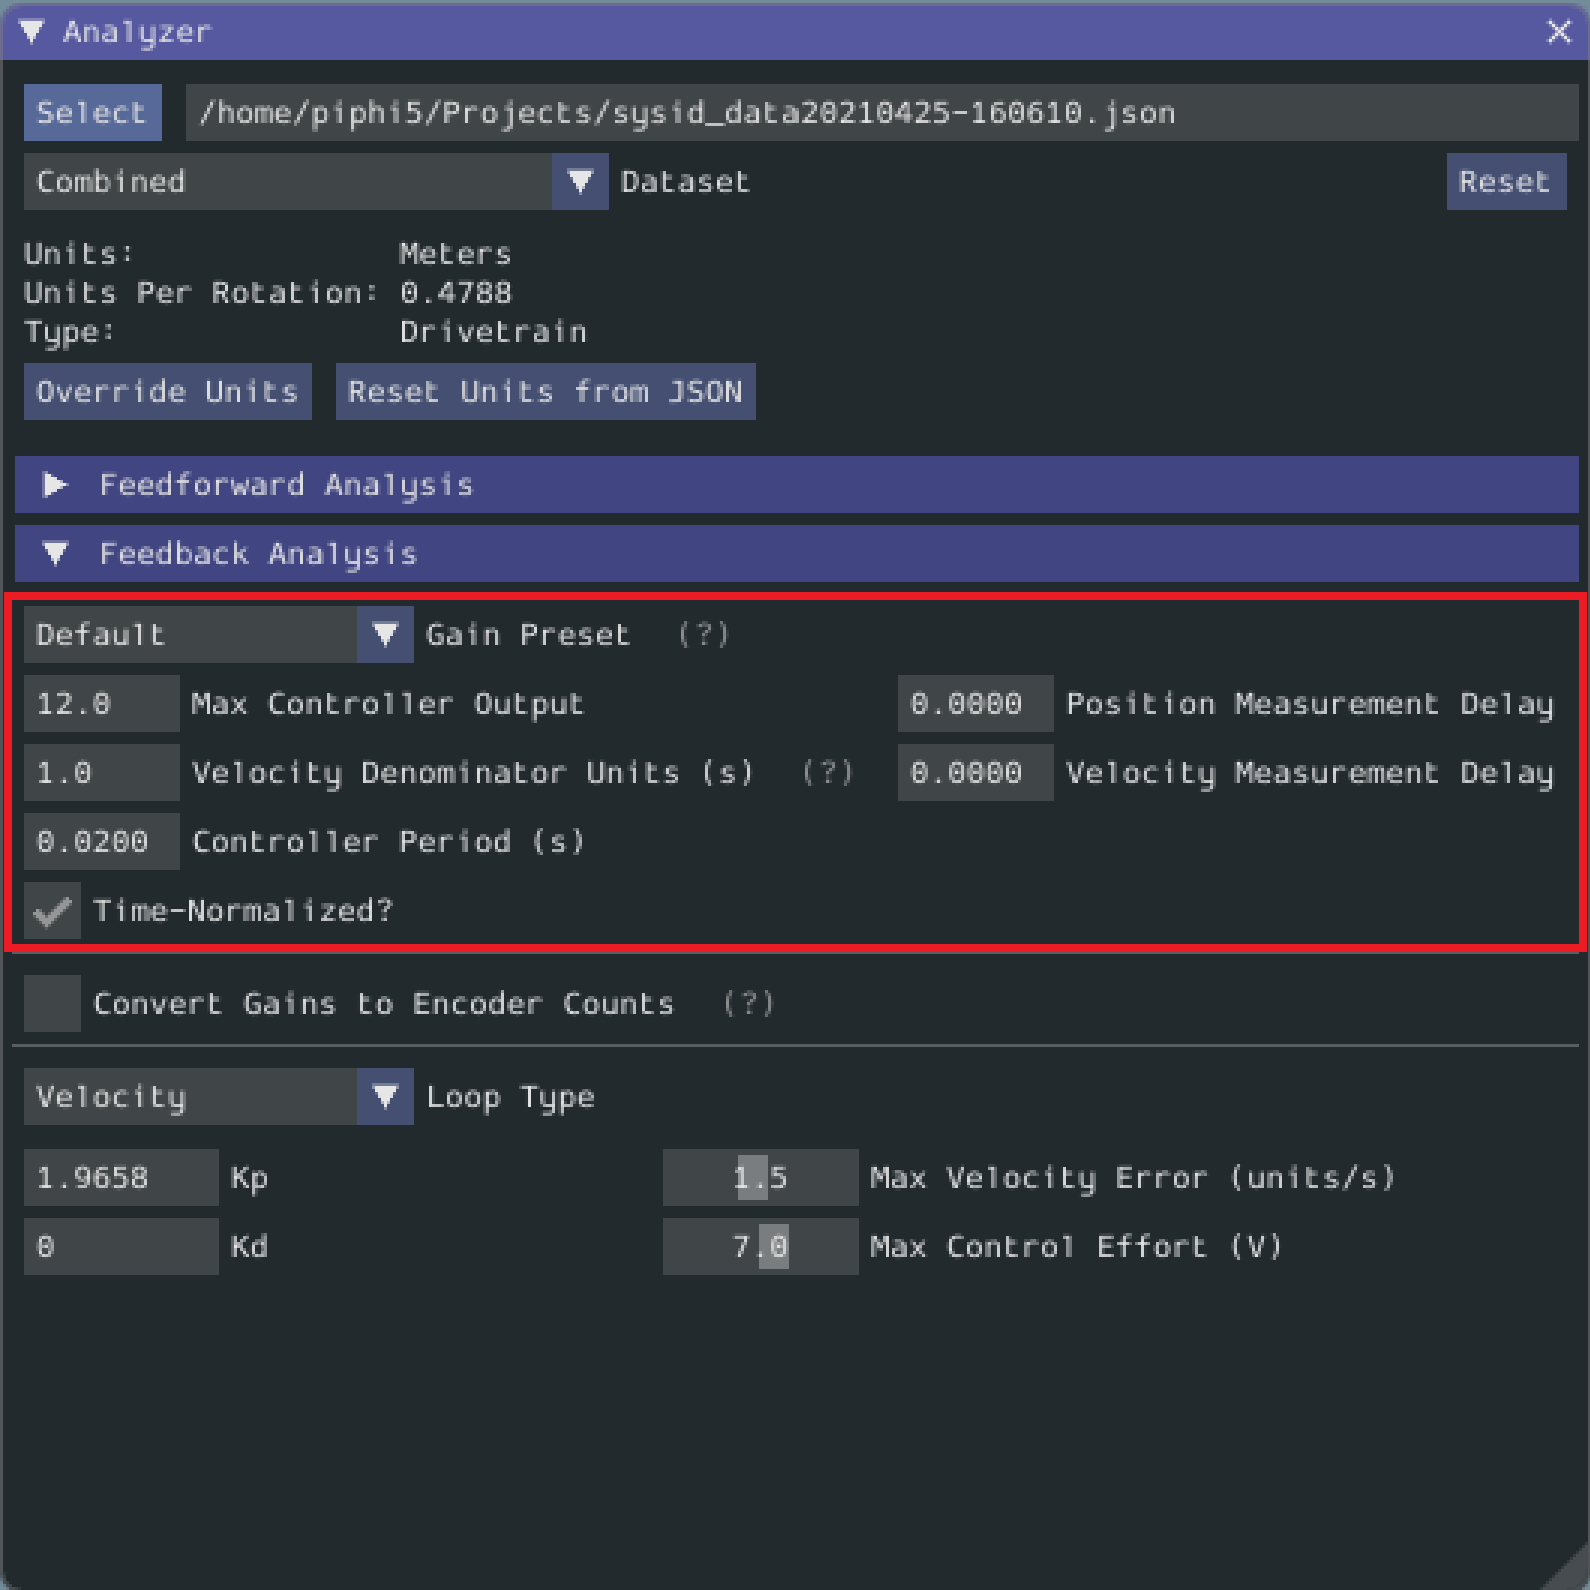
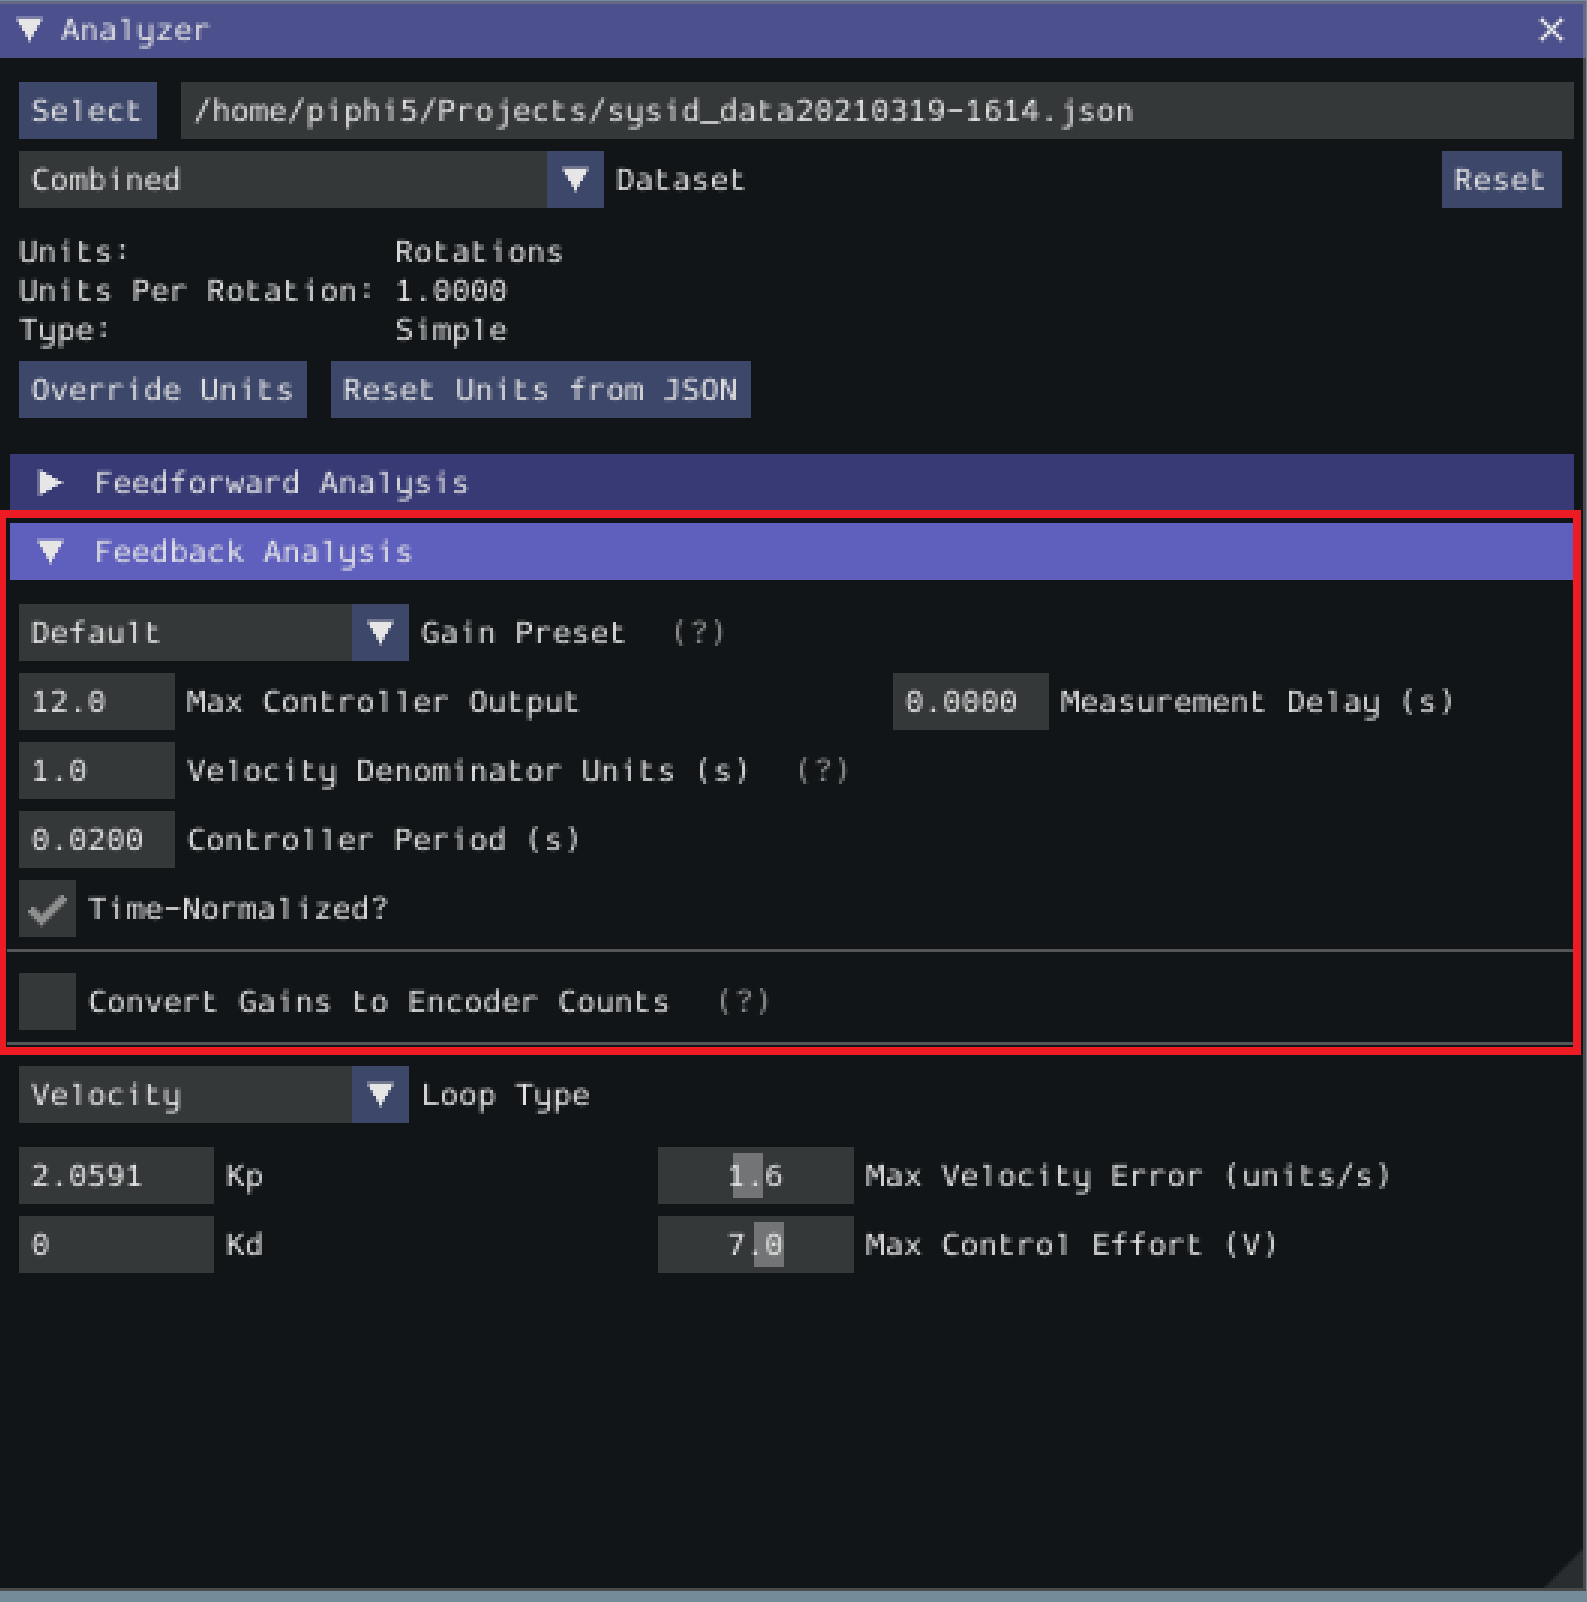
Add measurement delay explanation

Changed region(s): [[0.0, 0.0, 1.0, 1.0], [0.4014, 0.7088, 0.8645, 0.8013]]

diff --git a/source/docs/software/pathplanning/robot-characterization/analyzing-feedback.rst b/source/docs/software/pathplanning/robot-characterization/analyzing-feedback.rst
@@ -5,8 +5,6 @@ Feedback Analysis
 
 .. important:: These gains are, in effect, "educated guesses" - they are not guaranteed to be perfect, and should be viewed as a "starting point" for further tuning.
 
-.. warning:: The feedback gain calculation assumes that there is no mechanical backlash, sensor noise, or phase lag in the sensor measurement.  While these are reasonable assumptions in many situations, none of them are strictly true in practice.  In particular, many "smart motor controllers" (such as the ``Talon SRX``, ``Talon FX``, and ``SPARK MAX``) have default settings that apply substantial :ref:`low-pass filtering <docs/software/advanced-controls/filters/introduction:Introduction to Filters>` to their encoder velocity measurements, which introduces a significant amount of phase lag.  This can cause the calculated gains for velocity loops to be unstable.  To rectify this, either decrease the amount of filtering through the controller's API, or reduce the magnitude of the PID gains - it has been found that shrinking gains by about a factor of 10 works well for most default filtering settings.
-
 To view the feedback constants, click on the dropdown arrow on the :guilabel:`Feedback` section.
 
 .. image:: images/feedback-analysis.png
@@ -26,17 +24,32 @@ To specify the correct settings for your PID controller, use the following optio
 .. image:: images/controller-settings.png
    :alt: Picture of the controller settings
 
-- **Gain Settings Preset:** This drop-down menu will auto-populate the remaining fields with likely settings for one of a number of common FRC controller setups. Note that some settings, such as post-encoder gearing, PPR, and the presence of a follower motor must still be manually specified (as the analyzer has no way of knowing these without user input), and that others may vary from the given defaults depending on user setup.
-- **Controller Period:** This is the execution period of the control loop, in seconds. The default RIO loop rate is 50Hz, corresponding to a period of 0.02s. The onboard controllers on most "smart controllers" run at 1Khz, or a period of 0.001s.
-- **Max Controller Output:** This is the maximum value of the controller output, with respect to the PID calculation. Most controllers calculate outputs with a maximum value of 1, but Talon controllers have a maximum output of 1023.
-- **Time-Normalized Controller:** This specifies whether the PID calculation is normalized to the period of execution, which affects the scaling of the D gain.
-- **Controller Type:** This specifies whether the controller is an onboard RIO loop, or is running on a smart motor controller such as a Talon or a SPARK MAX.
-- **Post-Encoder Gearing:** This specifies the gearing between the encoder and the mechanism itself. This is necessary for control loops that do not allow user-specified unit scaling in their PID computations (e.g. those running on Talons). This will be disabled if not relevant.
-- **Encoder EPR:** This specifies the edges-per-revolution (not cycles per revolution) of the encoder used, which is needed in the same cases as Post-Encoder Gearing.
-- **Has Follower:** Whether there is a motor controller following the controller running the control loop, if the control loop is being run on a peripheral device. This changes the effective loop period.
-- **Follower Update Period:** The rate at which the follower (if present) is updated. By default, this is 100Hz (every 0.01s) for the Talon SRX, Talon FX, and the SPARK MAX, but can be changed.
+- :guilabel:`Gain Settings Preset` This drop-down menu will auto-populate the remaining fields with likely settings for one of a number of common FRC controller setups. Note that some settings, such as post-encoder gearing, PPR, and the presence of a follower motor must still be manually specified (as the analyzer has no way of knowing these without user input), and that others may vary from the given defaults depending on user setup.
+- :guilabel:`Controller Period` This is the execution period of the control loop, in seconds. The default RIO loop rate is 50Hz, corresponding to a period of 0.02s. The onboard controllers on most "smart controllers" run at 1Khz, or a period of 0.001s.
+- :guilabel:`Max Controller Output` This is the maximum value of the controller output, with respect to the PID calculation. Most controllers calculate outputs with a maximum value of 1, but Talon controllers have a maximum output of 1023.
+- :guilabel:`Time-Normalized Controller` This specifies whether the PID calculation is normalized to the period of execution, which affects the scaling of the D gain.
+- :guilabel:`Controller Type` This specifies whether the controller is an onboard RIO loop, or is running on a smart motor controller such as a Talon or a SPARK MAX.
+- :guilabel:`Post-Encoder Gearing` This specifies the gearing between the encoder and the mechanism itself. This is necessary for control loops that do not allow user-specified unit scaling in their PID computations (e.g. those running on Talons). This will be disabled if not relevant.
+- :guilabel:`Encoder EPR` This specifies the edges-per-revolution (not cycles per revolution) of the encoder used, which is needed in the same cases as Post-Encoder Gearing.
+- :guilabel:`Has Follower` Whether there is a motor controller following the controller running the control loop, if the control loop is being run on a peripheral device. This changes the effective loop period.
+- :guilabel:`Follower Update Period` The rate at which the follower (if present) is updated. By default, this is 100Hz (every 0.01s) for the Talon SRX, Talon FX, and the SPARK MAX, but can be changed.
 
 .. note:: If you select a smart motor controller as the preset (e.g. TalonSRX, SPARK MAX, etc.) the :guilabel:`Convert Gains` checkbox will be automatically checked. This means the tool will convert your gains so that they can be used through the smart motor controller's PID methods. Therefore, if you would like to use WPILib's PID Loops, you must uncheck that box.
+
+Measurement Delays
+^^^^^^^^^^^^^^^^^^
+
+.. note:: If you are using default smart motor controller settings or WPILib PID Control without additional filtering, SysId handles this for you.
+
+Many "smart motor controllers" (such as the ``Talon SRX``, ``Venom``, ``Talon FX``, and ``SPARK MAX``) apply substantial :ref:`low-pass filtering <docs/software/advanced-controls/filters/introduction:Introduction to Filters>` to their encoder velocity measurements, which can introduce a significant amount of phase lag.  This can cause the calculated gains for velocity loops to be unstable. This can be accounted for with the :guilabel:`Measurement Delay` box.
+
+However, the measurement delays have already been calculated for the default settings of the previously mentioned motor controllers so for most users this is handled by selecting the right preset in :guilabel:`Gain Settings Preset`.
+
+The following only applies if the user decides to implement their own custom filtering settings (e.g. adding a moving average filter to a WPILib PID loop or changing smart motorcontroller measurement period and/or measurement window size) as the measurement delay must be recalculated. Here is the general formula that can be used for filters with moving windows (e.g. median filter + moving average filter):
+
+.. math:: d = \frac{T(n - 1)}{2}
+
+Where ``T`` is the period at which measurements are sampled (RIO default is 20 ms) and ``n`` is the size of the moving window used.
 
 Specify Optimality Criteria
 ---------------------------
